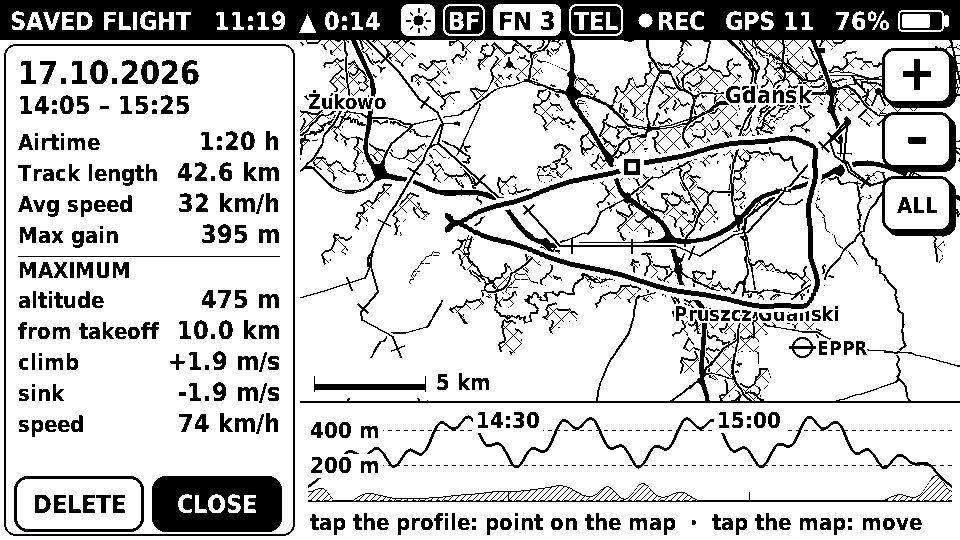
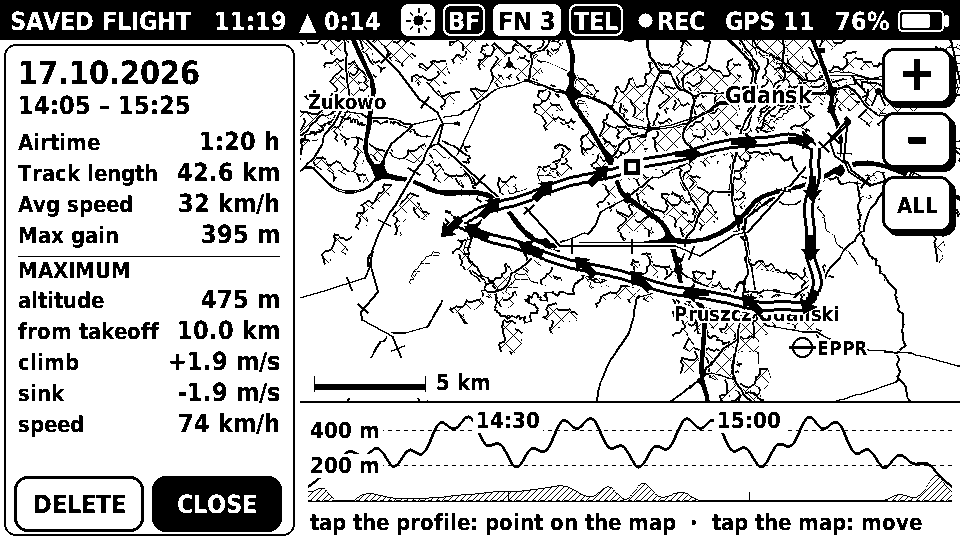
Flight viewer: track as a hollow double line with direction arrows; full refresh on map change
- the track was hard to tell from roads: now a hollow double line with arrows every
  60 px in the flying direction
- zoom / move / fit do a full e-paper refresh (ghost of the previous view, e.g. the
  'no map' note), a point on the profile stays a quick update

Claude-Session: https://claude.ai/code/session_011XfKyVFqAwC65NqrcskPcU

Changed region(s): [[0.4375, 0.2667, 0.875, 0.5926], [0.5625, 0.237, 0.8438, 0.3556]]

diff --git a/lib/navcore/src/ui/screens.cpp b/lib/navcore/src/ui/screens.cpp
@@ -2116,6 +2116,7 @@ void flightViewFit(FlightView& v) {
             v.z = z;
             v.cx = (x0 + x1) / 2;
             v.cy = (y0 + y1) / 2;
+            v.mapMoved = true;
             return;
         }
     }
@@ -2127,6 +2128,7 @@ void flightViewZoom(FlightView& v, int dir) {
     v.cx *= k;
     v.cy *= k;
     v.z = nz;
+    v.mapMoved = true;
 }
 
 FlightViewAction flightViewTap(FlightView& v, int x, int y) {
@@ -2158,6 +2160,7 @@ FlightViewAction flightViewTap(FlightView& v, int x, int y) {
     if (y >= FMY && y < FMY + FMH) {  // map: this point to the centre
         v.cx += x - (FMX + FMW / 2);
         v.cy += y - (FMY + FMH / 2);
+        v.mapMoved = true;
         return FV_REDRAW;
     }
     if (y >= FGY && !v.log->pts.empty()) {  // profile: select the point at this time
@@ -2200,9 +2203,20 @@ void drawFlightView(Canvas& c, const UiContext& u, const FlightView& v) {
             tp.push_back(q);
             last = q;
         }
-        // white halo under the black track: readable over the map lines
-        c.polyline(tp.data(), (int)tp.size(), WHITE, 13);
-        c.polyline(tp.data(), (int)tp.size(), BLACK, 5);
+        // track: double line, hollow inside (roads are solid black) with direction arrows every 60 px
+        const int n = (int)tp.size();
+        c.polyline(tp.data(), n, WHITE, 17);
+        c.polyline(tp.data(), n, BLACK, 11);
+        c.polyline(tp.data(), n, WHITE, 5);
+        double acc = 0;
+        for (int i = 1; i < n; i++) {
+            acc += std::hypot(tp[i].x - tp[i - 1].x, tp[i].y - tp[i - 1].y);
+            if (acc >= 60) {
+                acc = 0;
+                float ang = (float)(std::atan2(tp[i].x - tp[i - 1].x, -(tp[i].y - tp[i - 1].y)) * 180 / nav::kPi);
+                c.arrow(tp[i].x, tp[i].y, 26, ang, BLACK);
+            }
+        }
     }
     Pt t0 = to(l.pts.front().lat, l.pts.front().lon), t1 = to(l.pts.back().lat, l.pts.back().lon);
     c.fillCircle(t0.x, t0.y, 13, WHITE);

diff --git a/lib/navcore/src/ui/help.cpp b/lib/navcore/src/ui/help.cpp
@@ -93,7 +93,8 @@ static const std::vector<HelpTopic> kTopicsPl = {
      "startu i czas lotu. Wybierz lot, aby go obejrzeć (po lądowaniu; w locie lista się nie otwiera).\n"
      "– Po lewej dane lotu: czas, długość śladu, średnia prędkość, przewyższenie i wartości maksymalne (wysokość, "
      "odległość od startu, wznoszenie i opadanie z 10 s, prędkość).\n"
-     "– Mapa: ślad na mapie z karty (białe tło, gdzie mapy nie ma). Kropka – start, kwadrat – lądowanie. "
+     "– Mapa: ślad (podwójna linia ze strzałkami kierunku lotu) na mapie z karty (białe tło, gdzie mapy nie ma). "
+     "Kropka – start, kwadrat – lądowanie. "
      "Przyciski + i – albo KLAWISZ / BOOT krótko: przybliż / oddal; CAŁY – cały lot. Dotyk mapy przesuwa ten punkt "
      "na środek.\n"
      "– Na dole profil wysokości (kreskowanie – teren, gdy są pliki terenu). Dotyk profilu zaznacza chwilę lotu: "
@@ -372,7 +373,8 @@ static const std::vector<HelpTopic> kTopicsEn = {
      "airtime. Choose one to view it (after landing; the list does not open in flight).\n"
      "– On the left: airtime, track length, average speed, max gain and the maximum values (altitude, distance "
      "from takeoff, climb and sink over 10 s, speed).\n"
-     "– Map: the track over the map from the card (white where there is no map). Dot – takeoff, square – landing. "
+     "– Map: the track (double line with arrows in the flying direction) over the map from the card (white where "
+     "there is no map). Dot – takeoff, square – landing. "
      "Buttons + and – or KEY / BOOT short: zoom in / out; ALL – whole flight. Tap the map to move that point to the "
      "centre.\n"
      "– At the bottom: altitude profile (hatched – ground, with terrain files). Tap the profile to select a moment: "

diff --git a/src/main.cpp b/src/main.cpp
@@ -1773,7 +1773,10 @@ void loop() {
         bool full;
         if (view != lastView && lastView >= 0) full = true;
         else if (view == 1 || view == 2 || view == 4) full = quickInView >= 20;
-        else if (view == 8) full = quickInView >= 5;  // flight viewer: whole map changes, ghosting builds up fast
+        else if (view == 8) {  // flight viewer: a new map view = full refresh (no ghost of the old one); point on the profile = quick
+            full = flightView.mapMoved || quickInView >= 5;
+            flightView.mapMoved = false;
+        }
         else if (view == 5) full = quickInView >= 10;
         else full = settings.fullRefreshS > 0 && now - lastFull > (uint32_t)settings.fullRefreshS * 1000;
         uint32_t t0 = millis();

diff --git a/lib/navcore/src/ui/screens.h b/lib/navcore/src/ui/screens.h
@@ -123,6 +123,7 @@ struct FlightView {
     double cx = 0, cy = 0;  // view centre, global pixels at zoom z
     int cursor = -1;        // selected point (index into log->pts), -1 = none
     bool askDelete = false;
+    bool mapMoved = false;  // set by zoom / move / fit: the whole map changed (full e-paper refresh)
 };
 enum FlightViewAction { FV_NONE, FV_REDRAW, FV_CLOSE, FV_DELETE };
 void flightViewFit(FlightView& v);                 // whole flight in the map window

diff --git a/README.pl.md b/README.pl.md
@@ -160,7 +160,7 @@ Bez odpowiedzi lot trwa dalej. Jeśli bezruch trwa nadal, lot kończy się sam *
 ### Zapisane loty
 **Menu → Zapisane loty** – lista lotów z karty (pliki IGC z `logs/`, najnowsze na górze: data, godzina startu, czas lotu). Wybrany lot otwiera się na ekranie podobnym do XContest (po lądowaniu; w locie lista się nie otwiera):
 * **po lewej dane lotu**: czas lotu, długość śladu, średnia prędkość, przewyższenie oraz wartości maksymalne – wysokość, odległość od startu, wznoszenie i opadanie (z 10 s), prędkość,
-* **mapa ze śladem** na mapie podkładowej z karty (białe tło tam, gdzie mapy nie ma); kropka – start, kwadrat – lądowanie. **+ / –** (albo KLAWISZ / BOOT krótko) – przybliż / oddal, **CAŁY** – cały lot, **dotyk mapy** przesuwa ten punkt na środek,
+* **mapa ze śladem** na mapie podkładowej z karty (białe tło tam, gdzie mapy nie ma); ślad to podwójna linia z pustym środkiem i strzałkami kierunku lotu (drogi są pełne, czarne), kropka – start, kwadrat – lądowanie. Każda zmiana widoku mapy robi pełne odświeżenie e-papieru (bez „cieni” poprzedniego widoku). **+ / –** (albo KLAWISZ / BOOT krótko) – przybliż / oddal, **CAŁY** – cały lot, **dotyk mapy** przesuwa ten punkt na środek,
 * **profil wysokości** na dole (kreskowanie – teren, jeśli są pliki `.hgt`). **Dotyk profilu** zaznacza chwilę lotu: kółko na mapie, a pod profilem godzina, wysokość, wysokość nad terenem, vario i prędkość,
 * **USUŃ** (albo przytrzymaj BOOT) – po potwierdzeniu znikają pliki IGC i GPX; **ZAMKNIJ** (albo przytrzymaj KLAWISZ) – powrót.
 

diff --git a/README.md b/README.md
@@ -160,7 +160,7 @@ Without an answer the flight goes on. If you still do not move, the flight ends 
 ### Saved flights
 **Menu → Saved flights** – flights on the card (IGC files in `logs/`, newest first: date, takeoff time, airtime). The chosen flight opens on a screen similar to XContest (after landing; the list does not open in flight):
 * **flight data on the left**: airtime, track length, average speed, max gain and the maximum values – altitude, distance from takeoff, climb and sink (over 10 s), speed,
-* **the track on the background map** from the card (white where there is no map); dot – takeoff, square – landing. **+ / –** (or KEY / BOOT short) – zoom in / out, **ALL** – whole flight, **tap the map** to move that point to the centre,
+* **the track on the background map** from the card (white where there is no map); the track is a hollow double line with arrows in the flying direction (roads are solid black), dot – takeoff, square – landing. Every change of the map view does a full e-paper refresh (no ghost of the previous view). **+ / –** (or KEY / BOOT short) – zoom in / out, **ALL** – whole flight, **tap the map** to move that point to the centre,
 * **altitude profile** at the bottom (hatched – ground, with `.hgt` files). **Tap the profile** to select a moment: a ring on the map and, below the profile, time, altitude, height above ground, vario and speed,
 * **DELETE** (or hold BOOT) – after a confirmation the IGC and GPX files are removed; **CLOSE** (or hold KEY) – back.
 
